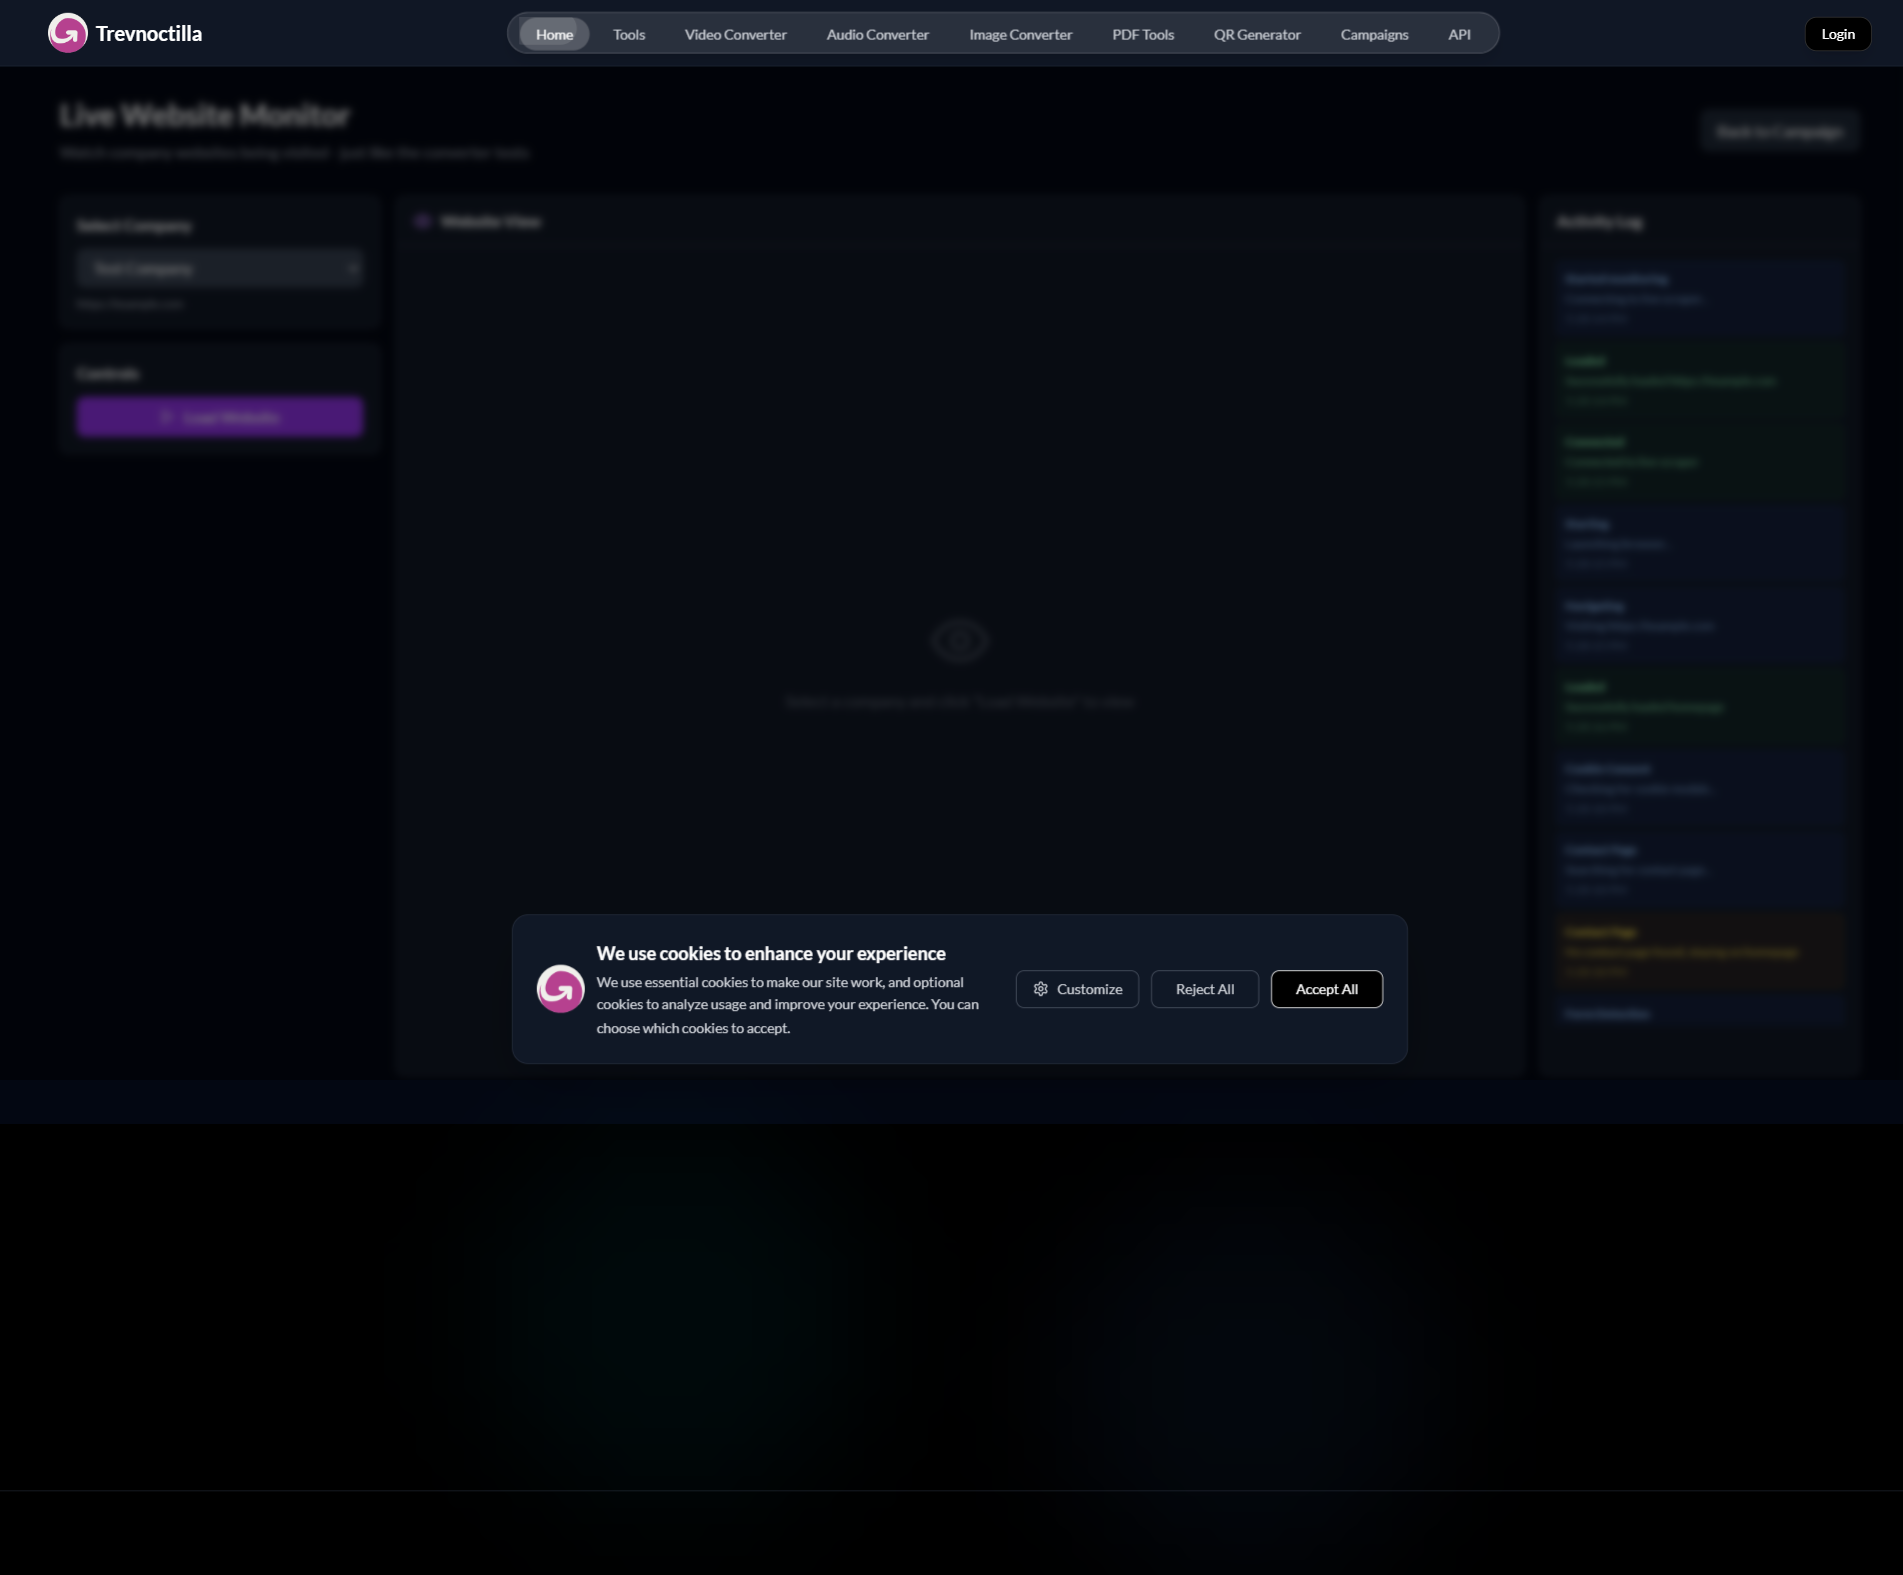
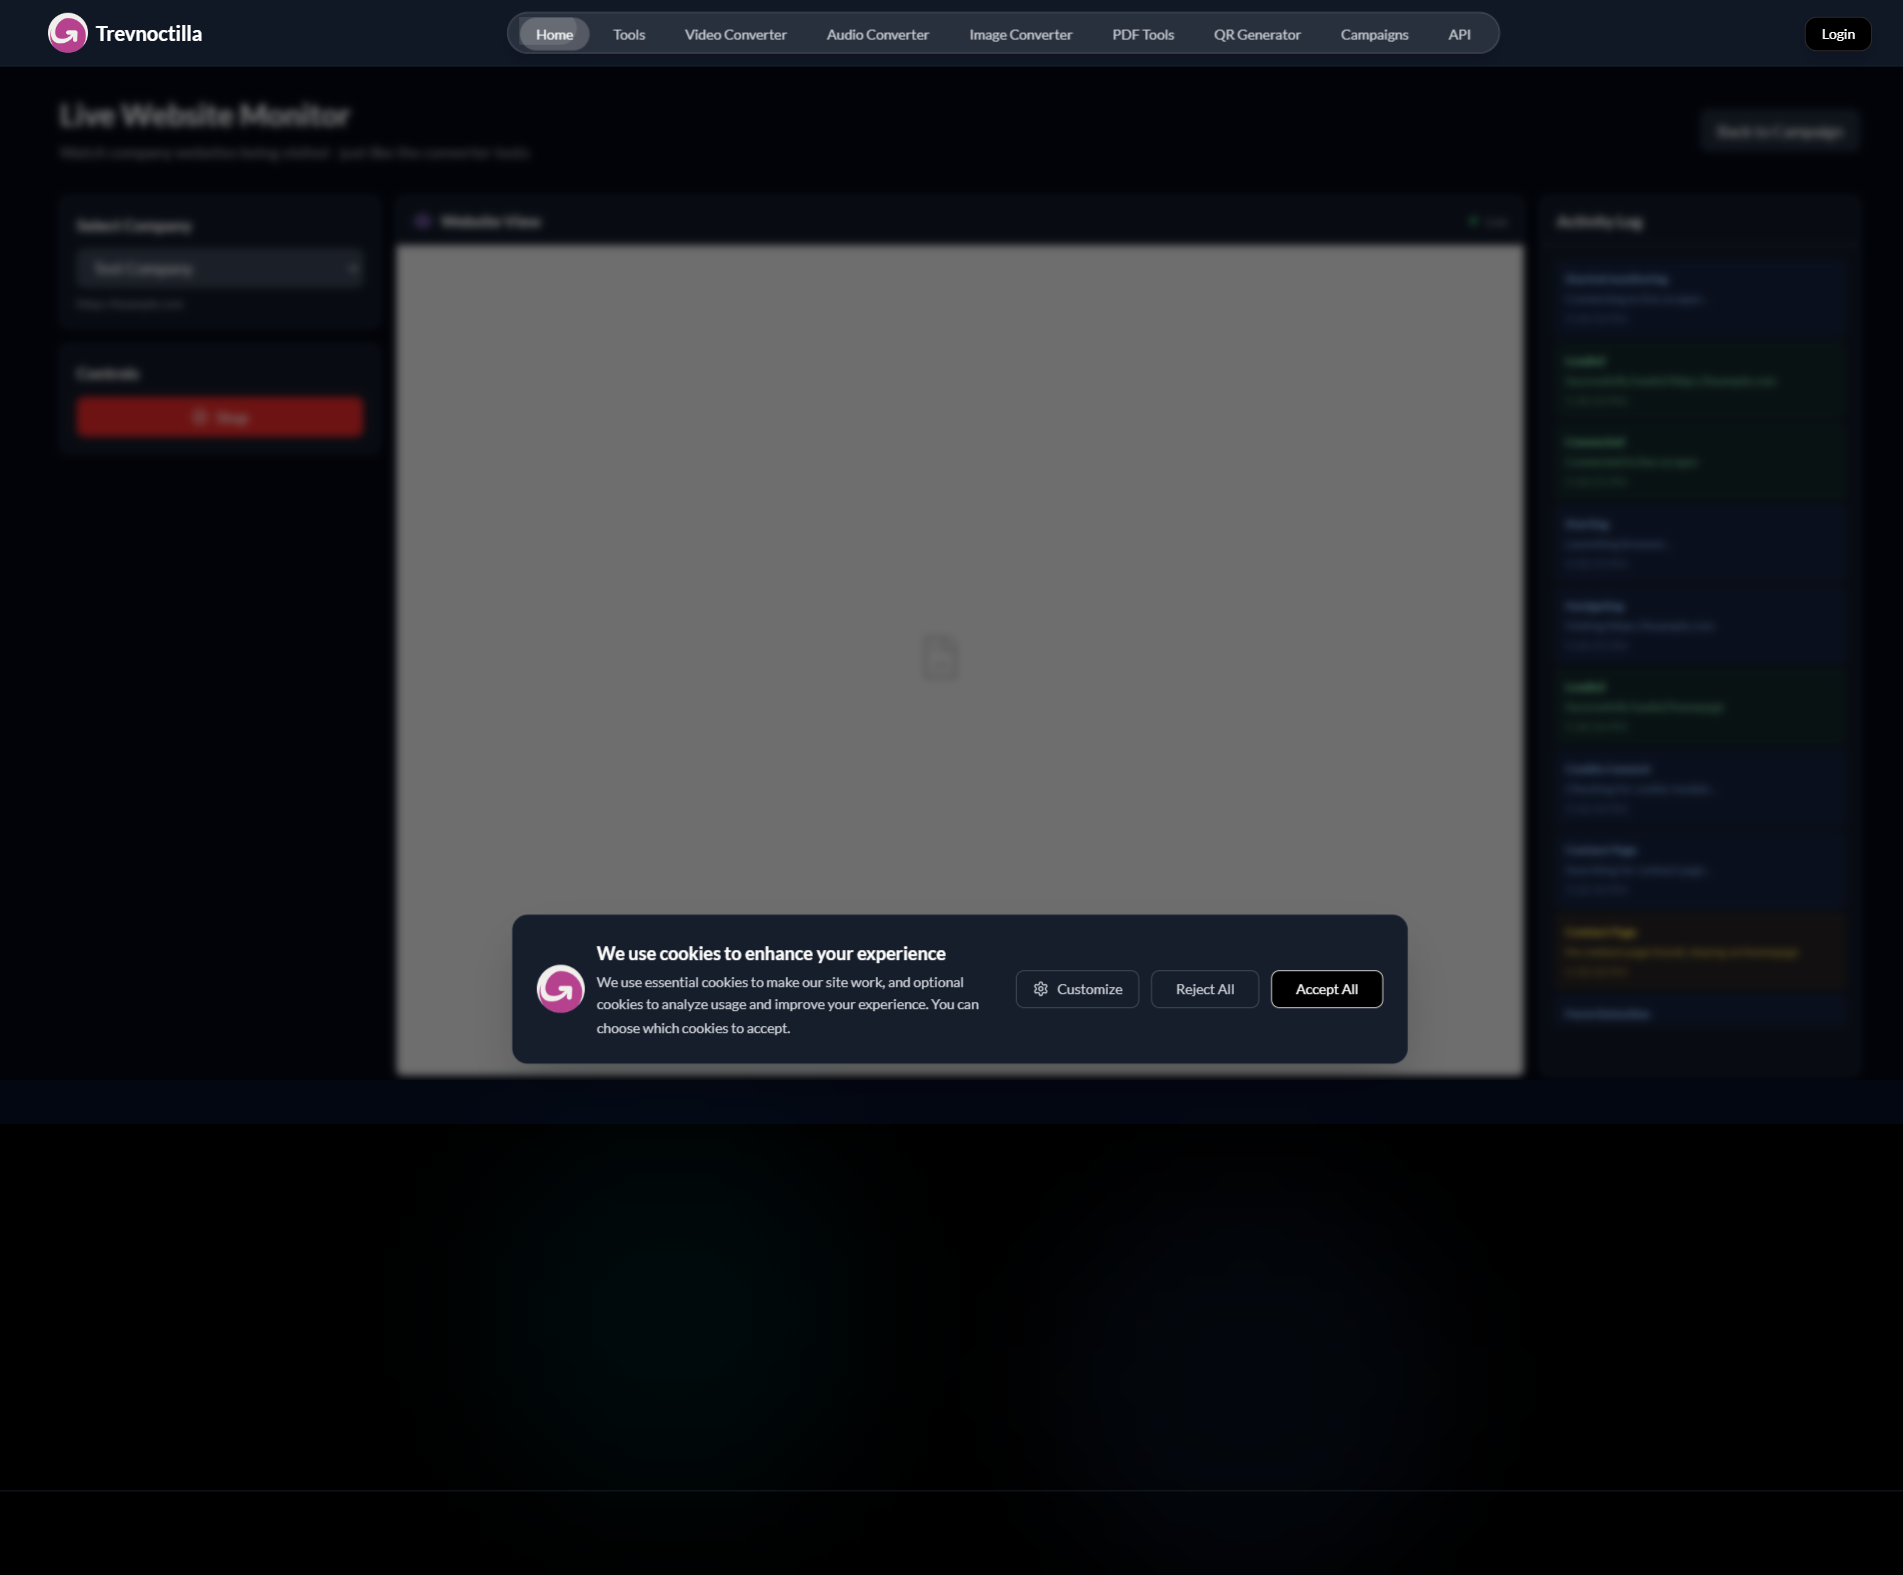
Remove auto-start, require manual Load Website button click

Changed region(s): [[0.031, 0.1556, 0.8061, 0.6844]]

diff --git a/check-backend-logs.js b/check-backend-logs.js
@@ -1,0 +1,31 @@
+const puppeteer = require('puppeteer');
+
+async function checkBackendLogs() {
+    const browser = await puppeteer.launch({
+        headless: false,
+        defaultViewport: { width: 1920, height: 1080 },
+        args: ['--no-sandbox']
+    });
+
+    const page = await browser.newPage();
+    
+    // Capture detailed WebSocket events
+    page.on('console', msg => {
+        console.log(`\x1b[36m[Browser]\x1b[0m ${msg.text()}`);
+    });
+    
+    // Navigate and monitor
+    console.log('\n\x1b[33mNavigating to monitor page...\x1b[0m\n');
+    await page.goto('https://www.trevnoctilla.com/campaigns/8/monitor', { 
+        waitUntil: 'domcontentloaded',
+        timeout: 60000 
+    });
+    
+    console.log('\n\x1b[33mWaiting 15 seconds to observe WebSocket behavior...\x1b[0m\n');
+    await page.waitForTimeout(15000);
+    
+    console.log('\n\x1b[32mTest complete - check console logs above\x1b[0m\n');
+    await browser.close();
+}
+
+checkBackendLogs().catch(console.error);

diff --git a/app/campaigns/[id]/monitor/page.tsx b/app/campaigns/[id]/monitor/page.tsx
@@ -36,23 +36,6 @@ export default function CampaignMonitorPage() {
     fetchCampaign();
   }, [campaignId]);
 
-  // Auto-start monitoring when company is selected (only once)
-  const hasStartedRef = useRef(false);
-  
-  useEffect(() => {
-    if (selectedCompany && !hasStartedRef.current && !loading) {
-      console.log('[Auto-Start] Starting monitoring for:', selectedCompany.company_name);
-      hasStartedRef.current = true;
-      
-      // Small delay to ensure UI is ready
-      const timer = setTimeout(() => {
-        startMonitoring();
-      }, 1000);
-      
-      return () => clearTimeout(timer);
-    }
-  }, [selectedCompany, loading]);
-
   const fetchCampaign = async () => {
     try {
       setLoading(true);
